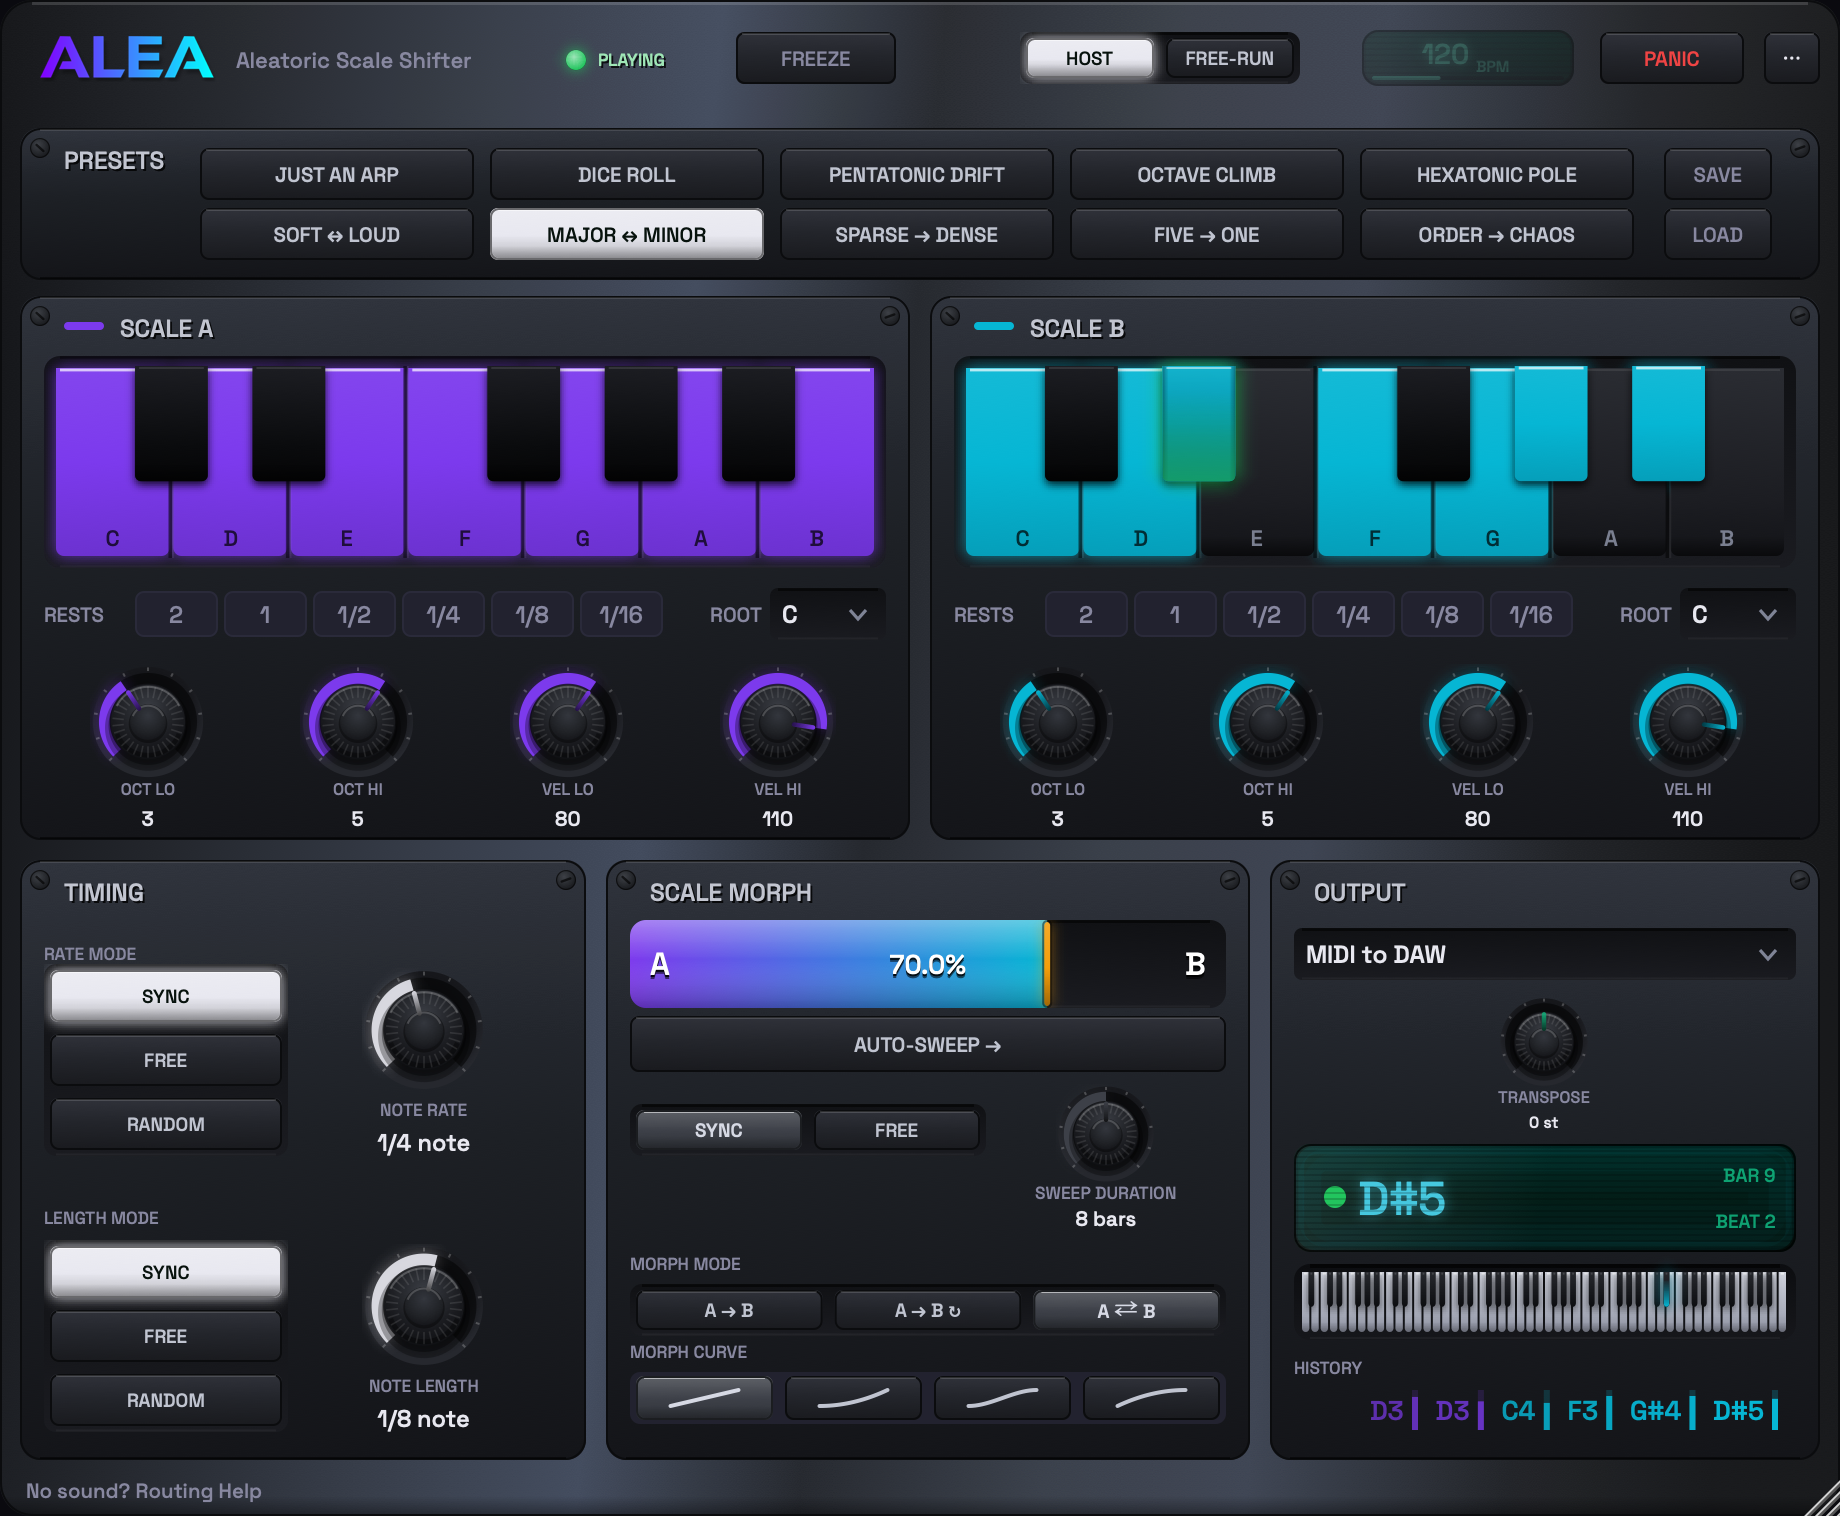
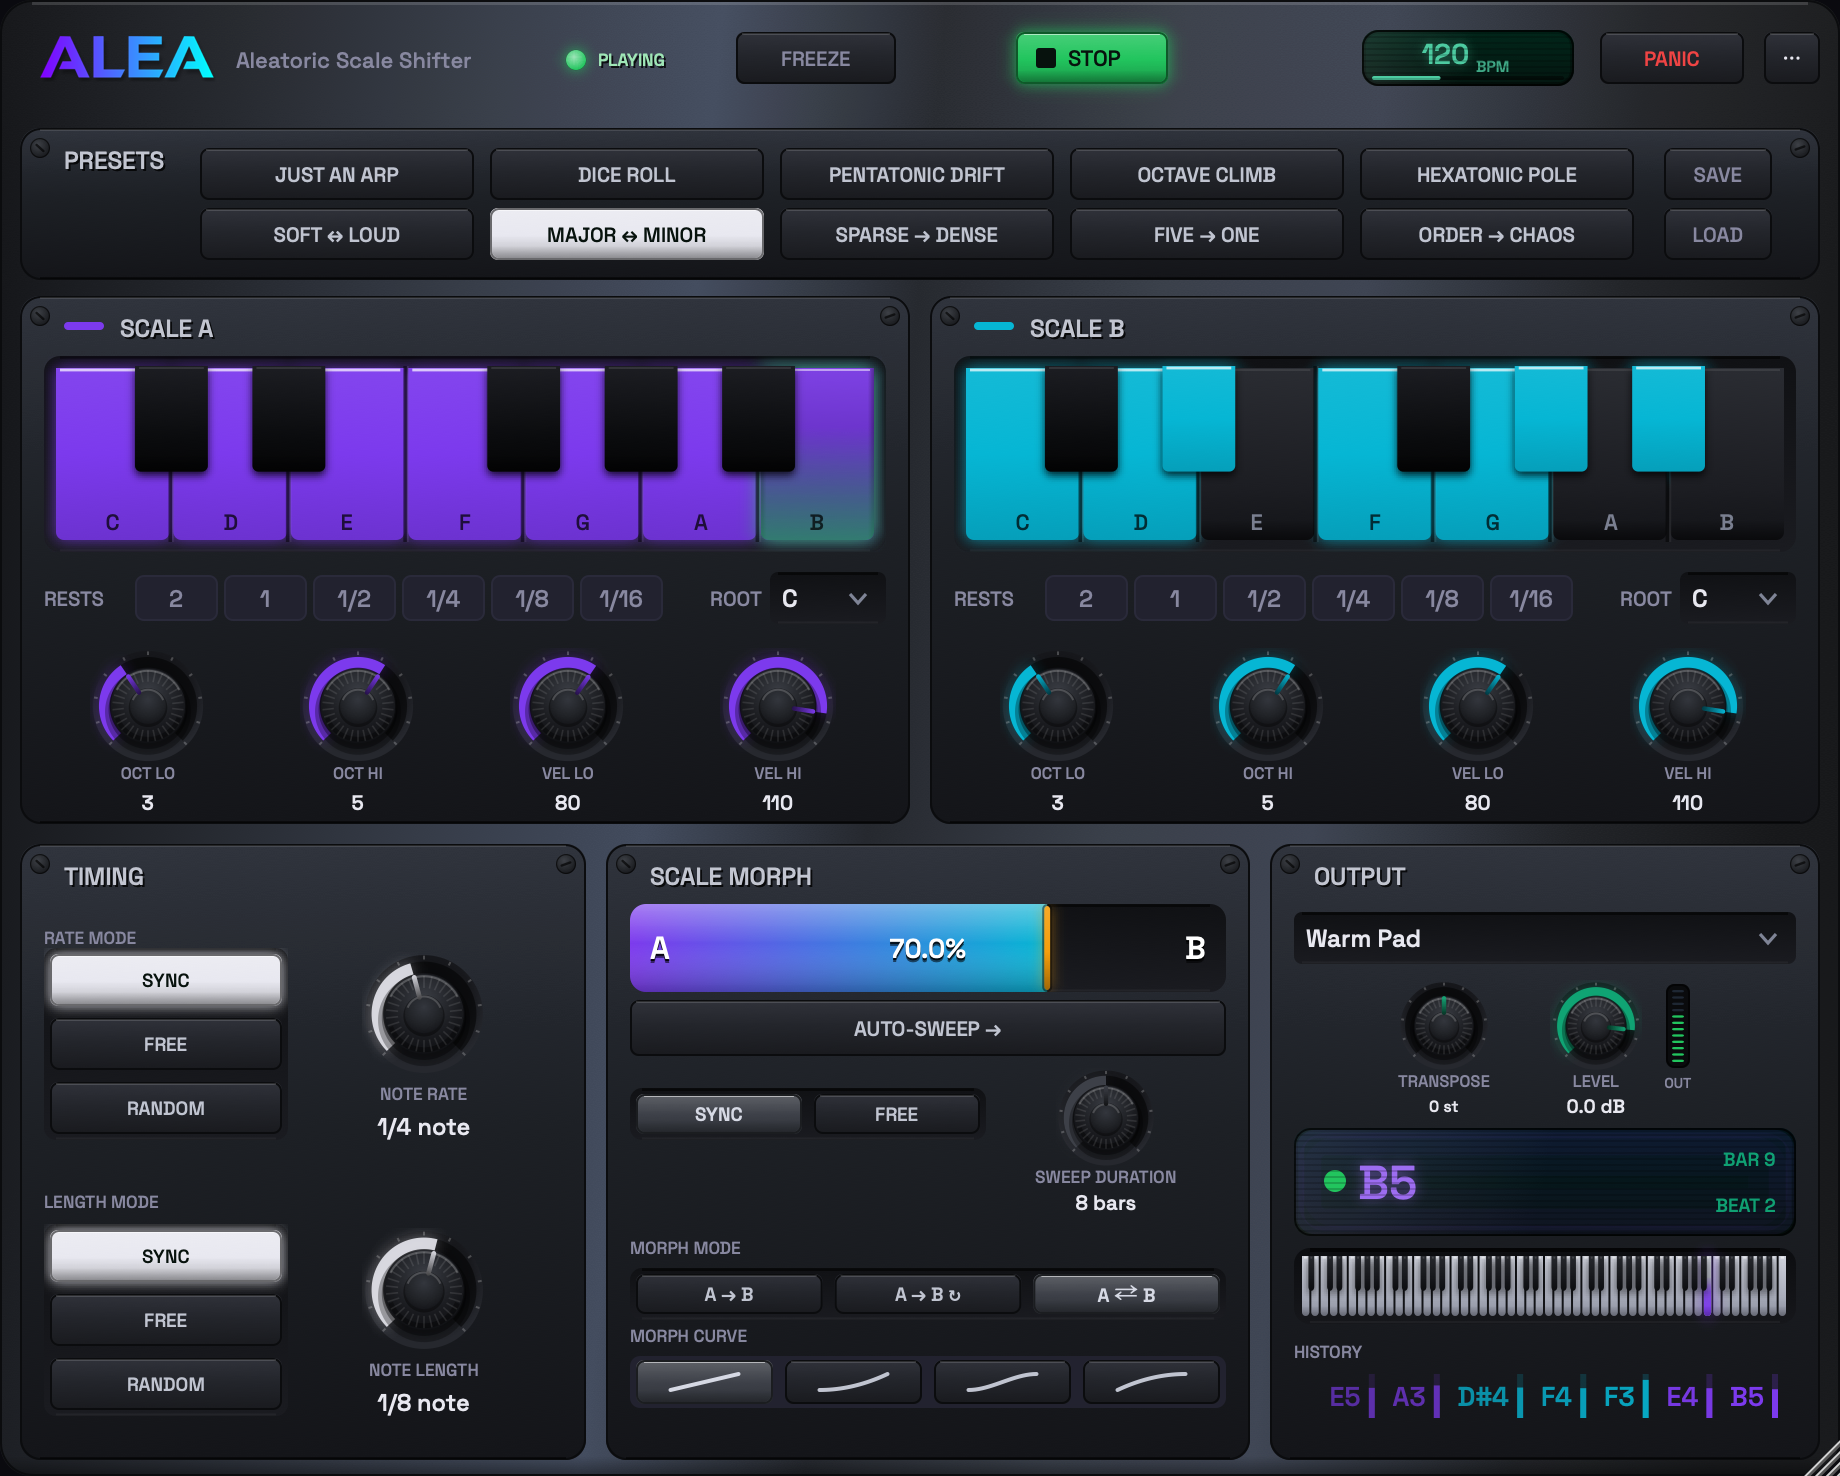
The two apps agree about MIDI devices, mono hosts and the transport
Three places where a decision made in one product never reached the other.

MIDI hotplug: the Chord Randomizer polls for devices appearing and
vanishing and rebuilds its OUT list; Scale Shifter read the device list
once, in a constructor, and never again. Plug a MIDI interface in while
the Scale Shifter standalone is open and it simply never showed up until
you relaunched. Its OUT population is now a rebuildable function, ticked
by the editor timer, the same shape the Chord Randomizer already used.

Bus layouts: Scale Shifter accepted mono or stereo, the Chord Randomizer
stereo only, with nothing explaining the difference. A host offering a
mono instrument slot would take one and refuse the other. Both accept
mono now; the shared sound engine and the click renderer already handle
a single channel.

Standalone detection: the Chord Randomizer counted a processor built
outside a host as standalone, Scale Shifter did not. Scale Shifter gains
the same isStandaloneLike helper. Deliberately NOT applied to the one
place that decides who owns the transport - the dev tools drive the
engine through an injected playhead, and treating that as standalone
would ignore the playhead and leave the regression checks silent. That
call site now says so in a comment.

The visible consequence was in the README: docs/ui.png showed Scale
Shifter wearing plugin chrome (HOST/FREE-RUN, MIDI to DAW, the routing
footer) beside a Chord Randomizer shot of the standalone app. The two
[…]

diff --git a/Source/UI.cpp b/Source/UI.cpp
@@ -653,15 +653,12 @@ void MorphBar::mouseUp (const juce::MouseEvent&)
 }
 
 //==============================================================================
-OutputPanel::OutputPanel (AleaAudioProcessor& p) : alea (p)
+// (Re)populate the OUT chooser. Rebuilt whenever the MIDI devices change, so
+// this has to restore the current selection rather than assume a fresh panel.
+// Mirrors ChordsEditor::buildOutputBox - the two products share the id scheme.
+void OutputPanel::buildOutputBox()
 {
-    const bool standalone = alea.wrapperType == juce::AudioProcessor::wrapperType_Standalone;
-
-    outputBox = std::make_unique<juce::ComboBox>();
-    outputBox->setColour (juce::ComboBox::backgroundColourId, colors::control);
-    outputBox->setColour (juce::ComboBox::textColourId, colors::text);
-    outputBox->setColour (juce::ComboBox::outlineColourId, colors::border);
-    outputBox->setColour (juce::ComboBox::arrowColourId, colors::secondary);
+    outputBox->clear (juce::dontSendNotification);
 
     const auto current = alea.getStandaloneOutput();
 
@@ -679,26 +676,25 @@ OutputPanel::OutputPanel (AleaAudioProcessor& p) : alea (p)
                 outputBox->addItem (f.name, 1 + f.flavour);
     }
 
+    // Standalone: the internal sounds (Warm Pad default) or any MIDI device.
+    // Plugin: pure MIDI by default; the synth makes hosts that cannot route
+    // plugin MIDI (AU in Live/Logic) hear Alea directly.
+    devices.clear();
     if (standalone)
     {
-        // Standalone: the internal sounds (Warm Pad default) or any MIDI device.
         devices = juce::MidiOutput::getAvailableDevices();
         if (! devices.isEmpty())
             outputBox->addSectionHeading ("MIDI");
         for (int i = 0; i < devices.size(); ++i)
             outputBox->addItem (devices[i].name, 100 + i);
+    }
 
-        outputBox->setSelectedId (1 + alea::warmPad, juce::dontSendNotification);
-        for (int i = 0; i < devices.size(); ++i)
-            if (devices[i].identifier == current)
-                outputBox->setSelectedId (100 + i, juce::dontSendNotification);
-    }
-    else
-    {
-        // Plugin: pure MIDI by default; the synth makes hosts that can't
-        // route plugin MIDI (AU in Live/Logic) hear Alea directly.
-        outputBox->setSelectedId (50, juce::dontSendNotification);
-    }
+    outputBox->setSelectedId (standalone ? 1 + alea::warmPad : 50, juce::dontSendNotification);
+    if (const int flavour = alea::flavourFromChoice (current); flavour >= 0 && alea.synthOn.load())
+        outputBox->setSelectedId (1 + flavour, juce::dontSendNotification);
+    for (int i = 0; i < devices.size(); ++i)
+        if (devices[i].identifier == current)
+            outputBox->setSelectedId (100 + i, juce::dontSendNotification);
 
     outputBox->onChange = [this]
     {
@@ -710,10 +706,33 @@ OutputPanel::OutputPanel (AleaAudioProcessor& p) : alea (p)
         else if (id >= 100 && id - 100 < devices.size())
             alea.setStandaloneOutput (devices[id - 100].identifier);
     };
+}
 
-    if (const int flavour = alea::flavourFromChoice (current); flavour >= 0 && alea.synthOn.load())
-        outputBox->setSelectedId (1 + flavour, juce::dontSendNotification);
+void OutputPanel::pollDeviceChanges()
+{
+    if (! standalone || --devicePollCountdown > 0)
+        return;
 
+    devicePollCountdown = 45;
+    auto fresh = juce::MidiOutput::getAvailableDevices();
+    bool changed = fresh.size() != devices.size();
+    for (int i = 0; ! changed && i < fresh.size(); ++i)
+        changed = fresh[i].identifier != devices[i].identifier;
+    if (changed)
+        buildOutputBox();
+}
+
+//==============================================================================
+OutputPanel::OutputPanel (AleaAudioProcessor& p)
+    : alea (p), standalone (p.isStandaloneLike())
+{
+    outputBox = std::make_unique<juce::ComboBox>();
+    outputBox->setColour (juce::ComboBox::backgroundColourId, colors::control);
+    outputBox->setColour (juce::ComboBox::textColourId, colors::text);
+    outputBox->setColour (juce::ComboBox::outlineColourId, colors::border);
+    outputBox->setColour (juce::ComboBox::arrowColourId, colors::secondary);
+
+    buildOutputBox();
     addAndMakeVisible (*outputBox);
 
     // Synth volume knob + vertical meter sit beside the chooser when the

diff --git a/Source/PluginProcessor.cpp b/Source/PluginProcessor.cpp
@@ -29,7 +29,7 @@ AleaAudioProcessor::AleaAudioProcessor()
     currentPreset.store (0);
 
     // Standalone makes sound out of the box; plugins default to pure MIDI.
-    synthOn.store (wrapperType == wrapperType_Standalone);
+    synthOn.store (isStandaloneLike());
 }
 
 void AleaAudioProcessor::cacheScaleRefs (char scale, ScaleRefs& refs)
@@ -236,7 +236,7 @@ void AleaAudioProcessor::setStandaloneOutput (const juce::String& choice)
         synthOn.store (false);
         // Device output only exists in the standalone; in a DAW the host
         // owns MIDI routing.
-        setMidiOutputDevice (wrapperType == wrapperType_Standalone ? choice : juce::String());
+        setMidiOutputDevice (isStandaloneLike() ? choice : juce::String());
     }
 }
 
@@ -259,7 +259,7 @@ void AleaAudioProcessor::processBlock (juce::AudioBuffer<float>& buffer, juce::M
                       juce::Decibels::decibelsToGain (pSynthVol->load()));
         synthPeak.store (sound.lastPeak());
     }
-    else if (wrapperType == wrapperType_Standalone && ! midi.isEmpty())
+    else if (isStandaloneLike() && ! midi.isEmpty())
     {
         const juce::ScopedTryLock sl (midiOutLock);
         if (sl.isLocked() && midiOutput != nullptr)
@@ -296,6 +296,11 @@ void AleaAudioProcessor::generateBlock (juce::AudioBuffer<float>& buffer, juce::
 
     // Standalone has no host: PLAY/STOP drives the transport and the clock
     // is always the internal one (spec section 10).
+    //
+    // Deliberately the strict wrapper test, NOT isStandaloneLike(): this
+    // decides who owns the transport, and a processor built outside a host
+    // (the dev tools) is driven by an injected playhead. Treating that as
+    // standalone would ignore the playhead and leave the tests silent.
     const bool standalone = wrapperType == wrapperType_Standalone;
     const bool isPlaying = standalone ? standaloneTransport.load()
                                       : position.hasValue() && position->getIsPlaying();
@@ -654,7 +659,7 @@ void AleaAudioProcessor::setStateInformation (const void* data, int sizeInBytes)
             // message thread; skip anywhere else).
             if (juce::MessageManager::getInstance()->isThisTheMessageThread())
                 setStandaloneOutput (apvts.state.getProperty ("standaloneOutput",
-                    wrapperType == wrapperType_Standalone ? "synth" : "").toString());
+                    isStandaloneLike() ? "synth" : "").toString());
         }
 }
 

diff --git a/Source/PluginProcessor.h b/Source/PluginProcessor.h
@@ -59,6 +59,16 @@ public:
     // Output choice. Standalone: built-in synth (default) or a MIDI device.
     // Plugin: MIDI to the host (default) or the built-in synth - the synth
     // matters most for the AU, since Live and Logic can't route AU MIDI out.
+    // "Standalone" for UI and routing purposes. wrapperType_Undefined is a
+    // processor built outside any host, which is what the dev tools do, so
+    // counting it here is what lets AleaUISnapshot render the app the way
+    // users actually see it. Mirrors ChordsProcessor::isStandaloneLike so the
+    // two products answer this question the same way.
+    bool isStandaloneLike() const
+    {
+        return wrapperType == wrapperType_Standalone || wrapperType == wrapperType_Undefined;
+    }
+
     std::atomic<bool> standaloneTransport { false }; // standalone PLAY/STOP
     std::atomic<bool> synthOn { false };
     std::atomic<int>  synthVoice { 0 };              // alea::Flavour - the shared sound library

diff --git a/Source/PluginEditor.cpp b/Source/PluginEditor.cpp
@@ -69,7 +69,7 @@ AleaAudioProcessorEditor::AleaAudioProcessorEditor (AleaAudioProcessor& p)
                                      "Bounce: back and forth between A and B" }),
       morphCurve (*p.apvts.getParameter ("morphCurve"), colors::amber),
       tempoSource  (*p.apvts.getParameter ("tempoSource"),  params::tempoSources, colors::text),
-      standalone (p.wrapperType == juce::AudioProcessor::wrapperType_Standalone),
+      standalone (p.isStandaloneLike()),
       output (p)
 {
     // The family LookAndFeel (Hardware.h): Space Grotesk, hardware chrome.
@@ -679,6 +679,7 @@ void AleaAudioProcessorEditor::timerCallback()
     restsB.repaint();
     morphBar.repaint();
     output.repaint();
+    output.pollDeviceChanges(); // MIDI hotplug: OUT follows devices coming and going
     content.repaint (0, 0, content.getWidth(), 60); // header status dot
 
     // Random-mode "current pick" readouts live in the timing panel

diff --git a/Source/UI.h b/Source/UI.h
@@ -117,10 +117,19 @@ public:
     void paint (juce::Graphics&) override;
     void resized() override;
 
+    // MIDI hotplug. The editor ticks this; the OUT list rebuilds when devices
+    // appear or vanish, so a keyboard plugged in mid-session shows up without
+    // relaunching. Standalone only - in a plugin the host owns routing.
+    void pollDeviceChanges();
+
 private:
+    void buildOutputBox();   // (re)populate: sounds, then MIDI devices
+
     AleaAudioProcessor& alea;
+    const bool standalone;
     std::unique_ptr<juce::ComboBox> outputBox;
     juce::Array<juce::MidiDeviceInfo> devices;
+    int devicePollCountdown = 45;              // ~3 s at the editor's 15 Hz
     juce::Slider volSlider;                    // internal synth volume (dB)
     juce::Slider transposeSlider;              // global output transpose
     juce::Label transposeField;                // double-click-editable "N st" readout

diff --git a/Tools/UISnapshot.cpp b/Tools/UISnapshot.cpp
@@ -459,6 +459,12 @@ int main (int argc, char* argv[])
     processor.setPlayConfigDetails (0, 2, 44100.0, 512);
     processor.prepareToPlay (44100.0, 512);
 
+    // The tool builds the processor outside any host, which now counts as
+    // standalone, so the shot wears the transport the app really shows. Arm
+    // it: notes are about to sound from the fake playhead below, and a PLAY
+    // button beside a sounding note would be the UI lying in the README.
+    processor.standaloneTransport.store (true);
+
     // Optional: pose with a synth output so the OUTPUT panel shows the
     // level meter + volume knob (dev-only calibration flag).
     if (argc > 2 && juce::String (argv[2]) == "synth")

diff --git a/Source/Chords/ChordsProcessor.cpp b/Source/Chords/ChordsProcessor.cpp
@@ -37,7 +37,11 @@ chords::Chord ChordsProcessor::rollOne()
 
 bool ChordsProcessor::isBusesLayoutSupported (const BusesLayout& layouts) const
 {
-    return layouts.getMainOutputChannelSet() == juce::AudioChannelSet::stereo();
+    // Same answer as Scale Shifter: mono is accepted as well as stereo, so a
+    // host offering a mono instrument slot can still load us. Both the shared
+    // sound engine and renderClicks handle a single channel.
+    const auto out = layouts.getMainOutputChannelSet();
+    return out == juce::AudioChannelSet::stereo() || out == juce::AudioChannelSet::mono();
 }
 
 //==============================================================================
